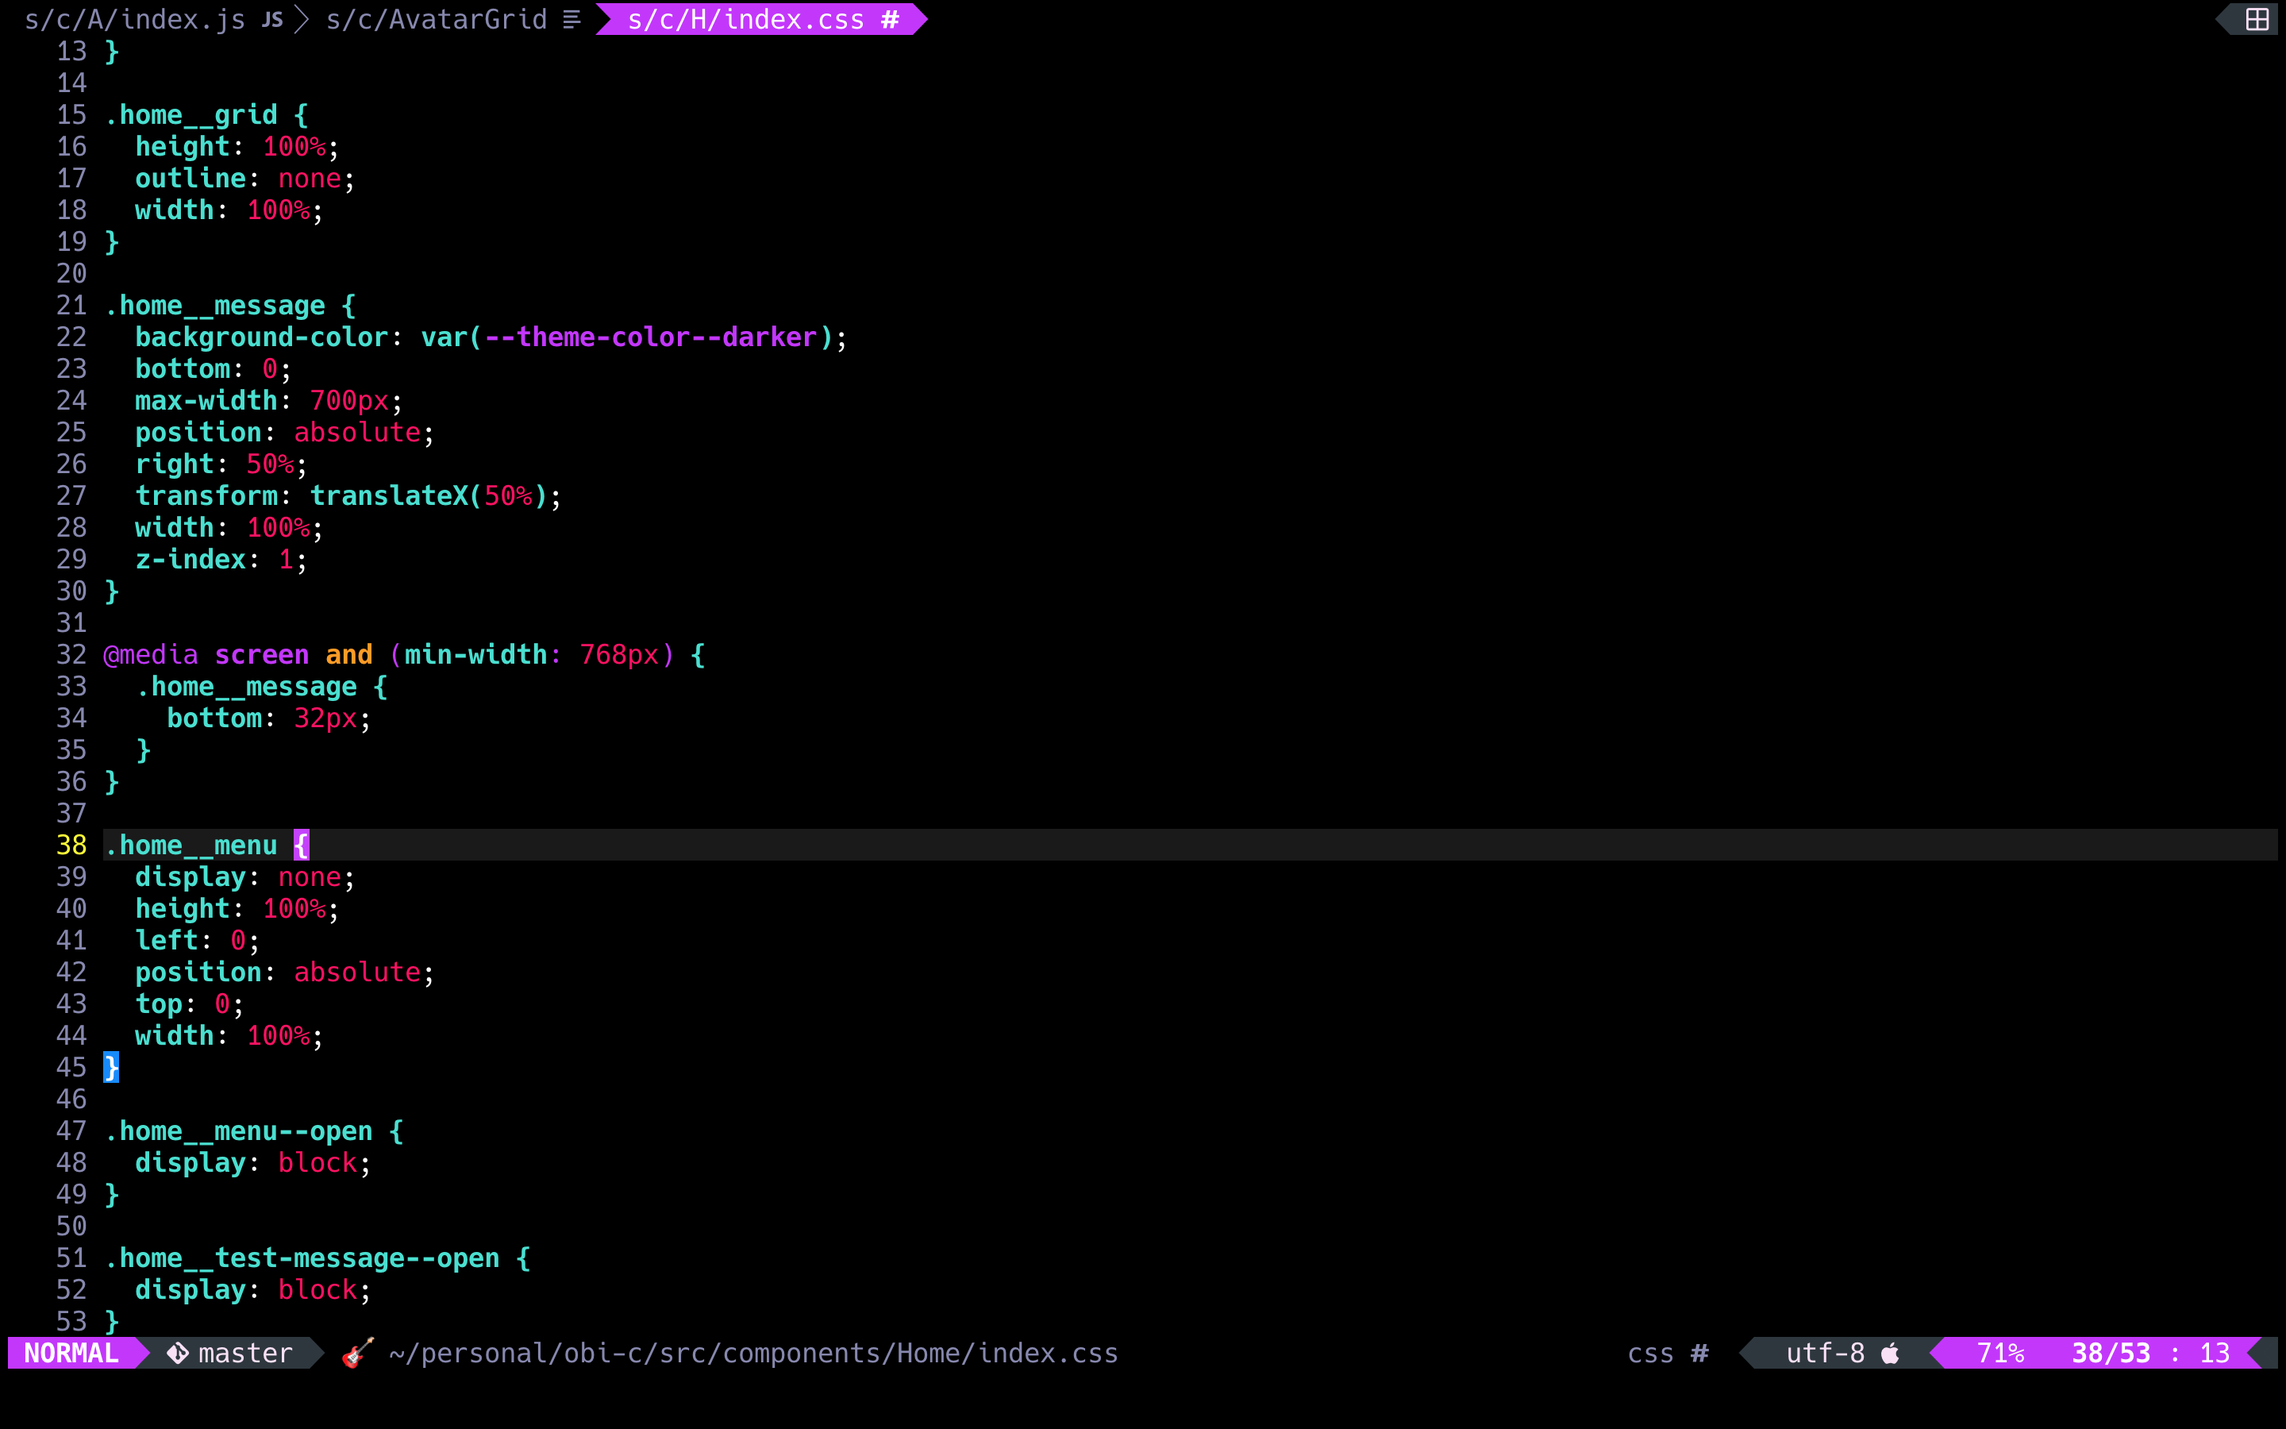
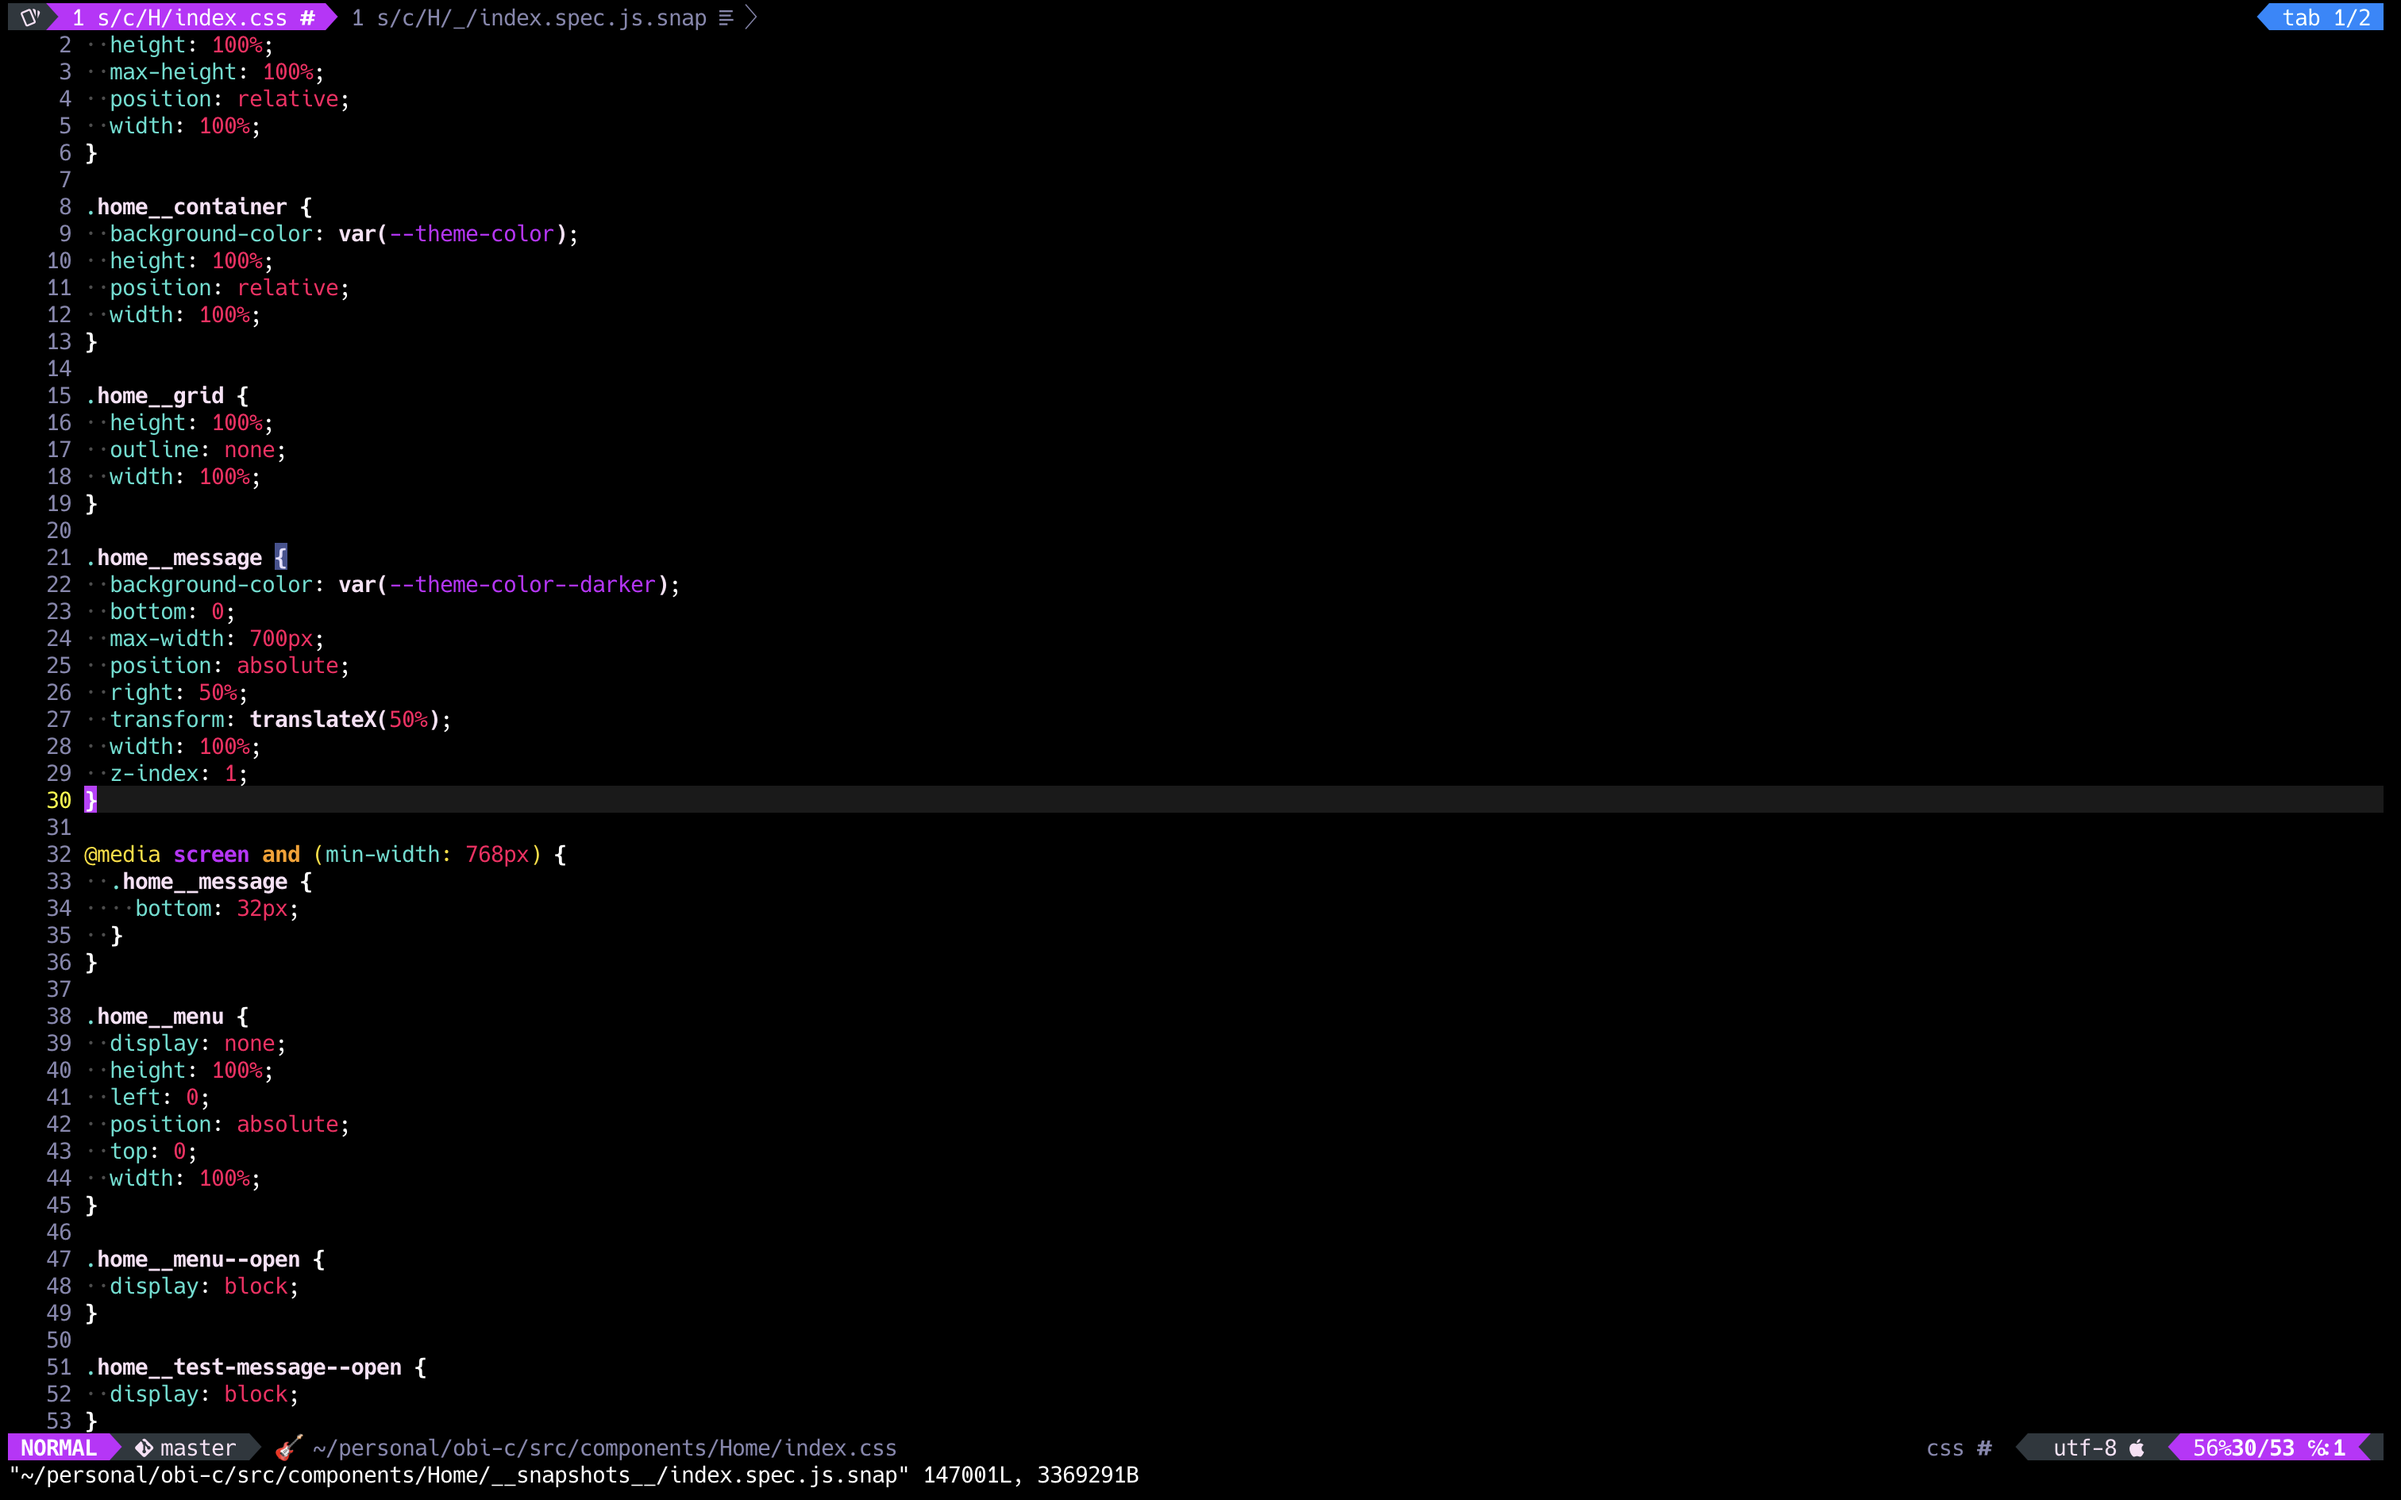
New screenshots

Changed region(s): [[0.0, 0.0, 1.0, 0.9956], [0.7188, 0.9333, 1.0, 0.9956], [0.9375, 0.0, 1.0, 0.0311]]

diff --git a/README.md b/README.md
@@ -1,6 +1,6 @@
 # 🎸 Pop-Punk
 
-![jsx](https://github.com/bignimbus/pop-punk.vim/blob/main/assets/jsx.png)
+![jsx](https://github.com/bignimbus/pop-punk.vim/blob/main/assets/ts.png)
 
 Dark, high-contrast color scheme for vim
 
@@ -67,6 +67,7 @@ Screenshots were taken with the following settings:
 ![ruby](https://github.com/bignimbus/pop-punk.vim/blob/main/assets/ruby.png)
 ![html](https://github.com/bignimbus/pop-punk.vim/blob/main/assets/html.png)
 ![popup](https://github.com/bignimbus/pop-punk.vim/blob/main/assets/popup.png)
+![ts](https://github.com/bignimbus/pop-punk.vim/blob/main/assets/ts.png)
 ![terminal](https://github.com/bignimbus/pop-punk.vim/blob/main/assets/terminal.png)
 
 ### Airline theme
